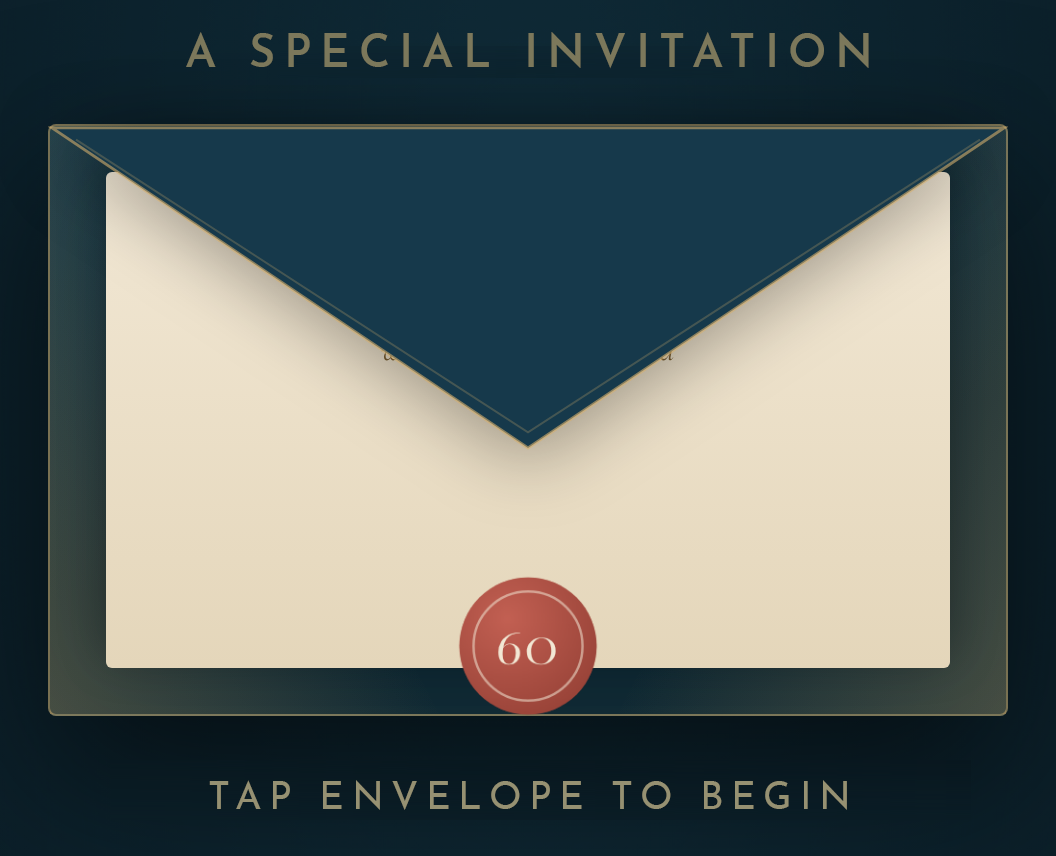
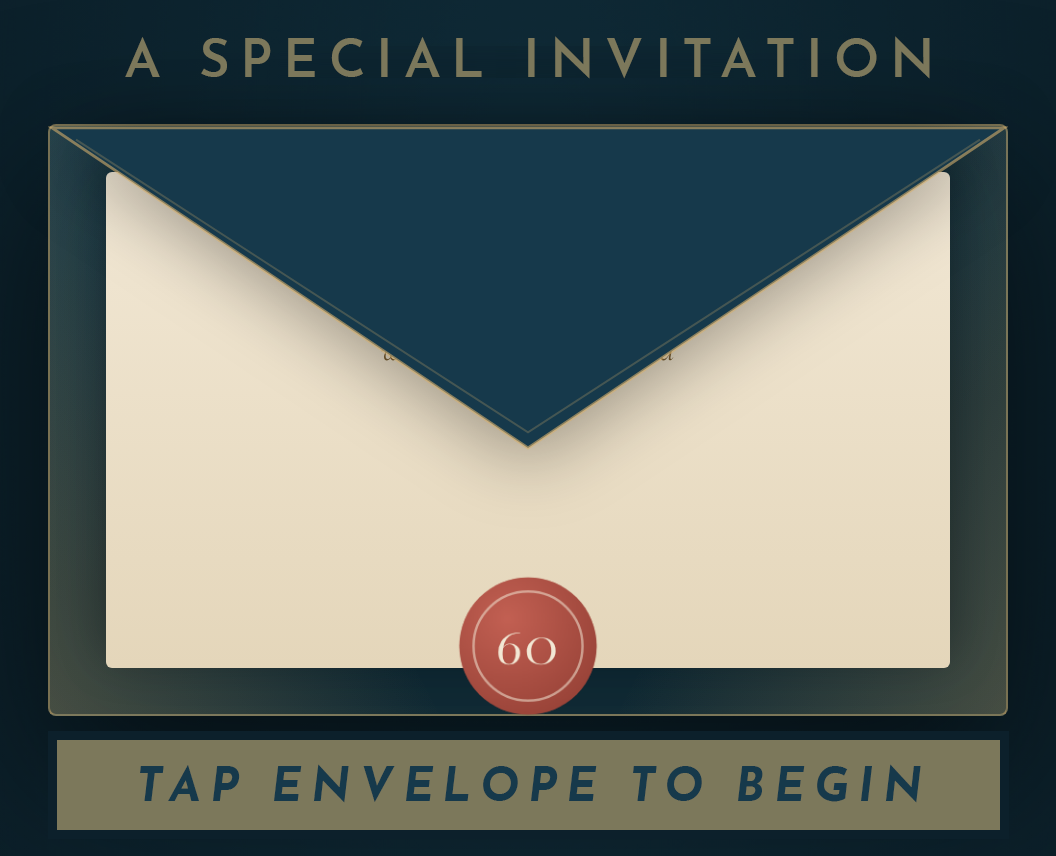
Various phonecall feedback adjustments

Changed region(s): [[0.0312, 0.8505, 0.9688, 0.972], [0.5, 0.0304, 0.9062, 0.0911], [0.125, 0.0304, 0.4688, 0.0911]]

diff --git a/index.html b/index.html
@@ -125,14 +125,14 @@ body{
 }
 .card-top{ padding:52px 34px 8px; text-align:center; }
 .eyebrow{
-  font-size:10px; letter-spacing:.5em; text-transform:uppercase; color:var(--gold);
+  font-size:13px; letter-spacing:.5em; text-transform:uppercase; color:var(--gold);
 }
 .portrait-wrap{
   position:relative; width:max-content; margin:26px auto 4px;
   display:flex; align-items:center; gap:10px;
 }
 .portrait{
-  width:132px; height:132px; border-radius:50%; cursor:pointer;
+  width:160px; height:160px; border-radius:50%; cursor:pointer;
   border:1.5px solid var(--gold); padding:5px; position:relative;
   box-shadow:0 0 34px rgba(211,174,107,.25);
   background:none; -webkit-tap-highlight-color:transparent;
@@ -403,7 +403,7 @@ footer{ text-align:center; padding:26px 20px 0; font-size:9.5px; letter-spacing:
 
     <div class="body-copy">
       <p>On the 12th of December 2026, Veronika reaches a grand milestone — her 60th birthday — and we intend to celebrate it in equally grand style: aboard Royal Caribbean's <span class="plain">Anthem of the Seas</span>, sailing the South Pacific.</p>
-      <p>The ship departs Sydney on the evening of <span class="plain">December 11th</span> and returns on the morning of <span class="plain">December 19th</span>, calling at Nouméa, Port Vila, and Mystery Island along the way — with Veronika's birthday itself celebrated at sea, somewhere in the Coral Sea, which feels exactly right.</p>
+      <p>The ship departs Sydney on the evening of <span class="plain">December 11th</span> and returns on the morning of <span class="plain">December 19th</span>, calling at Nouméa, Port Vila, and Mystery Island along the way — with Veronika's birthday itself celebrated at sea, which feels exactly right.</p>
       <p>We would be delighted if you could join us. Beyond a few planned gatherings — a special birthday dinner among them — the days are yours: everyone does their own thing, and we gather as we wish.</p>
     </div>
 
@@ -448,9 +448,8 @@ footer{ text-align:center; padding:26px 20px 0; font-size:9.5px; letter-spacing:
     </div>
 
     <div class="rsvp">
-      <h2>RSVP</h2>
-      <p>Once you've made your decision, please send your RSVP to Veronika at<br/>
-        <a href="mailto:veronika@example.com?subject=RSVP%20—%20Veronika%27s%2060th%20Birthday%20Cruise">veronika@example.com</a> or <a href="tel:+61415428644">+61&nbsp;415&nbsp;428&nbsp;644</a></p>
+      <h2 style="color:#8a6d3b;">RSVP</h2>
+      <p>Once you've made your decision, please RSVP by responding to this invitation email.</p>
       <p>Questions? Reach out to us at anytime!</p>
       <p class="soft">And of course — we'll completely understand if you're unable to join us.<br/>You'll be with us in spirit, and there will be photos. So many photos.</p>
     </div>

diff --git a/email.html b/email.html
@@ -2,6 +2,9 @@
 <html>
 <head><meta charset="utf-8"><title>You're Invited — Veronika at Sixty</title></head>
 <body style="margin:0;padding:0;background-color:#0a1b24;">
+<div style="font-family:'Futura',sans-serif;width:520px;text-transform: uppercase;text-align:center;font-size:23px;margin:24px auto 0 auto;color:#7e6e4f;padding-top:8px;">
+  Veronika and Mark are delighted to invite you to a special event
+</div>
 <!-- Preheader: shows next to the subject line in inboxes, invisible in the body -->
 <div style="display:none;max-height:0;overflow:hidden;mso-hide:all;">
   A South Pacific birthday voyage aboard Anthem of the Seas &middot; 11&ndash;19 December 2026 &middot; tap to open your invitation&hellip;
@@ -34,20 +37,10 @@
       </div>
     </td></tr>
 
-    <!-- Button -->
-    <tr><td align="center" style="padding:30px 0 8px;">
-      <a href="https://jameswomack.github.io/veronika-voyage/" target="_blank"
-         style="display:inline-block;background-color:#d3ae6b;color:#0d2430;
-                font-family:Georgia,'Times New Roman',serif;font-size:14px;letter-spacing:3px;
-                text-transform:uppercase;text-decoration:none;padding:16px 42px;border-radius:2px;">
-        Open&nbsp;Your&nbsp;Invitation
-      </a>
-    </td></tr>
-
     <!-- Fallback link -->
     <tr><td align="center" style="padding:16px 12px 0;">
       <span style="font-family:Georgia,'Times New Roman',serif;font-style:italic;font-size:13px;color:#8aa4ad;">
-        If the button is shy:&nbsp;
+        If the envelope button is shy:&nbsp;
         <a href="https://jameswomack.github.io/veronika-voyage/" target="_blank" style="color:#d3ae6b;">
           jameswomack.github.io/veronika-voyage
         </a>
@@ -57,7 +50,7 @@
     <!-- Sign-off -->
     <tr><td align="center" style="padding:30px 12px 0;">
       <span style="font-family:Georgia,'Times New Roman',serif;font-style:italic;font-size:15px;color:#e6dcc6;">
-        with love, Veronika &amp; Mark
+        With love, Veronika &amp; Mark
       </span>
     </td></tr>
 
